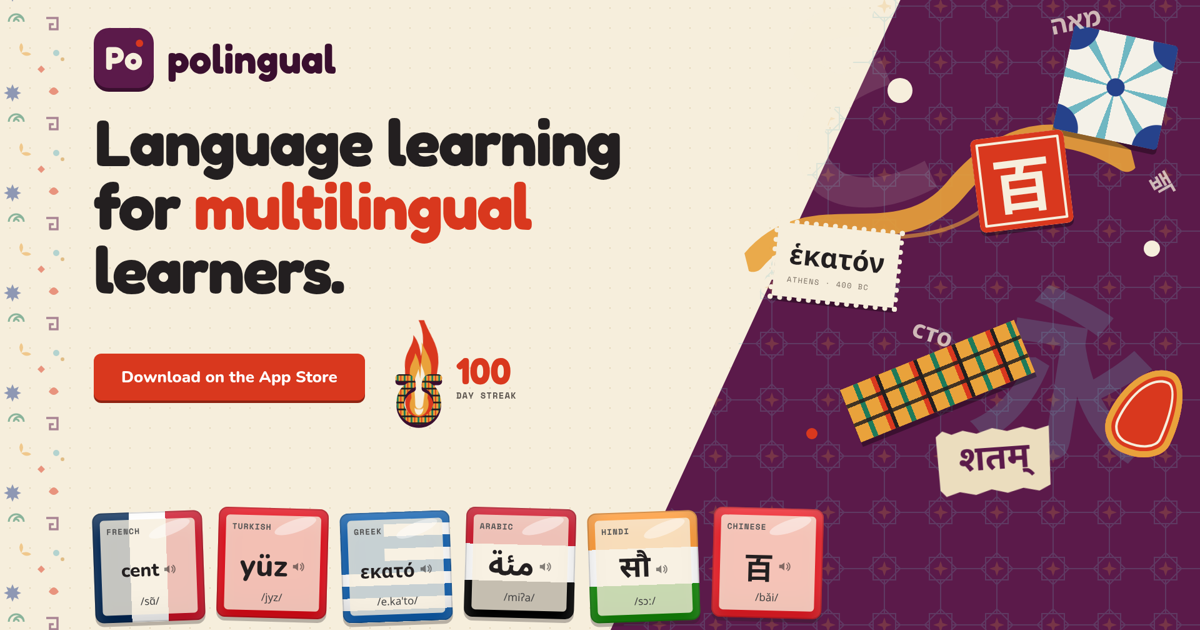
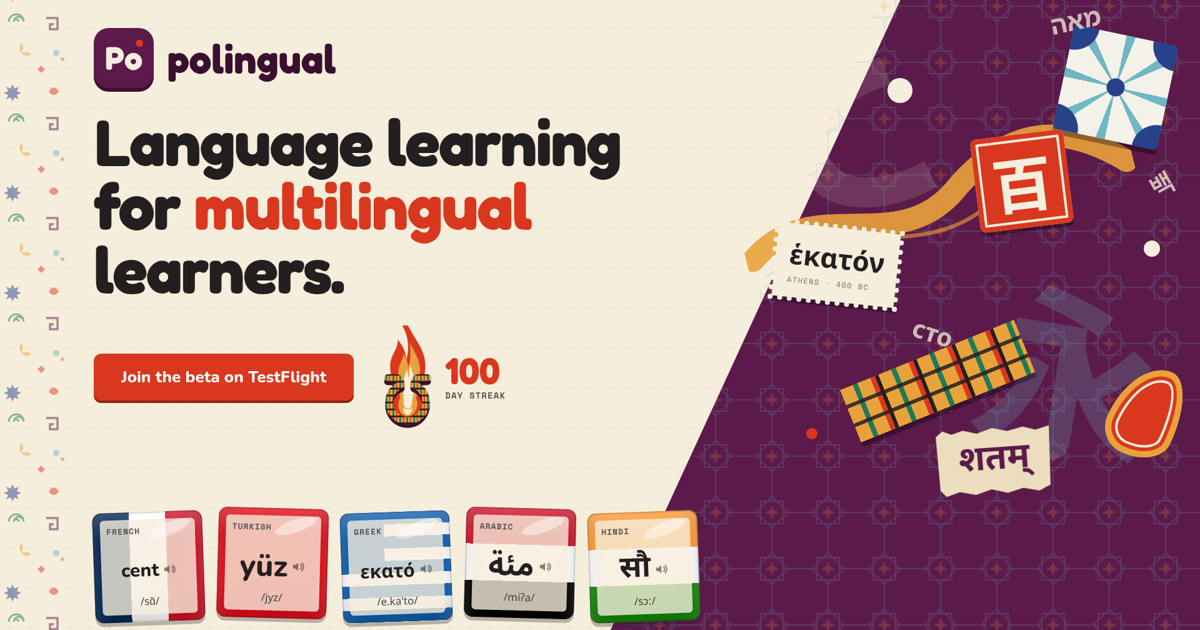
feat(polingual): fill tall desktop windows, full share metadata, share button
Hero stretches to the window height; manifest, favicon, image alt, locale; Share uses the Web Share API with copy fallback; refreshed share image.

Changed region(s): [[0.0925, 0.5127, 0.4317, 0.6937], [0.5858, 0.7841, 0.7092, 0.9952]]

diff --git a/polingual/public/d8/index.html b/polingual/public/d8/index.html
@@ -14,6 +14,14 @@
 <meta property="og:url" content="https://www.polingual.com/">
 <meta property="og:image" content="https://www.polingual.com/d8/og.png">
 <meta property="og:image:width" content="1200"><meta property="og:image:height" content="630">
+<meta property="og:image:type" content="image/png">
+<meta property="og:image:alt" content="Polingual: language learning for multilingual learners, with word tiles in French, Hebrew, Greek, Arabic, Hindi and Chinese">
+<meta property="og:locale" content="en_US">
+<meta name="twitter:image:alt" content="Polingual word tiles in six scripts">
+<meta name="apple-mobile-web-app-title" content="Polingual">
+<meta name="application-name" content="Polingual">
+<link rel="manifest" href="/d8/manifest.webmanifest">
+<link rel="icon" href="/favicon.ico" sizes="32x32">
 <meta name="twitter:card" content="summary_large_image">
 <meta name="twitter:title" content="Polingual: language learning for multilingual learners">
 <meta name="twitter:description" content="Polingual teaches one word across many languages and scripts. Hear every word said, see its roots, and keep a daily streak. For iPhone and iPad.">
@@ -30,7 +38,11 @@ html,body{height:100%;overflow:hidden;background:#F6EEDC}
 #dk .hero{flex:1 1 auto;min-height:0;position:relative;overflow:hidden;background:linear-gradient(90deg,#F6EEDC 50%,#5B1A4A 50%)}
 #dk .stage{position:absolute;left:0;top:0;width:1920px;height:1080px;transform-origin:0 0}
 #dk .stage .brand{visibility:hidden}
-#dk .stage .l{top:20px}
+#dk .stage .l{top:calc(20px + var(--ex,0px))}
+#dk .stage .wedge,#dk .stage .tile{height:100%!important}
+#dk .stage .r{top:calc(120px + var(--ex,0px))!important}
+#dk .stage .col{top:var(--ex,0px)!important;bottom:auto!important;height:1080px}
+#dk .stage .s{height:100%!important}
 #dk .wrap{max-width:1240px;margin:0 auto;padding:0 32px}
 #dk nav{display:flex;align-items:center;gap:28px;padding:22px 0}
 #dk .brand{display:flex;align-items:center;gap:12px;font-family:Fredoka;font-weight:700;font-size:30px;color:var(--lip);text-decoration:none;margin-right:20px}
@@ -279,13 +291,13 @@ html,body{height:100%;overflow:hidden;background:#F6EEDC}
 #mb .wd-box .cal{line-height:1;font-weight:800;transform:rotate(-8deg)}
 #mb .wd-box .ink{width:34px;height:34px;border-radius:50%;background:#F6EEDC}}
 #mb .art,#mb .grid,#mb .grid .t,#mb h1,#mb .pot .fire,#mb .pot b,#mb .cta .btn,#mb .mn>*{transition:left .5s cubic-bezier(.2,.8,.2,1),right .5s,width .5s,height .5s,font-size .5s,max-width .5s,padding .5s,clip-path .5s,margin .5s}
-@media (max-width:759px),(max-aspect-ratio:20/21){#dk{display:none}#mb{display:block}}
+@media (max-width:759px),(max-aspect-ratio:5/4){#dk{display:none}#mb{display:block}}
 </style></head><body>
 <div id="dk">
 <header class="hd"><div class="wrap"><nav>
   <a class="brand" href="/"><span class="mark" data-slot="logo"><img src="/d8/mark-pl.svg" alt="Polingual"></span>polingual</a>
   <a class="l" href="/support">Support</a><a class="l" href="/privacy">Privacy</a>
-  <a class="btn btn-p" style="margin-left:auto" href="https://testflight.apple.com/join/HfeRBKr8" data-slot="appstore" rel="noopener">Join the beta</a>
+  <a class="l" href="#" data-slot="share" style="margin-left:auto">Share</a><a class="btn btn-p" href="https://testflight.apple.com/join/HfeRBKr8" data-slot="appstore" rel="noopener">Join the beta</a>
  </nav></div></header>
 <main class="hero" id="hero"><div class="stage" id="stage">
 <div class="s">
@@ -350,7 +362,7 @@ html,body{height:100%;overflow:hidden;background:#F6EEDC}
 <div id="mb">
 <div class="memphis"></div>
 <div class="pg">
- <nav><a class="brand" href="/"><span class="mark"><img src="/d8/mark-pl.svg" alt="Polingual"></span>polingual</a><a class="si" href="/support">Support</a></nav>
+ <nav><a class="brand" href="/"><span class="mark"><img src="/d8/mark-pl.svg" alt="Polingual"></span>polingual</a><a class="si" href="#" data-slot="share">Share</a></nav>
  <main class="mn">
  <h1>Language learning for <em>multilingual</em> learners.</h1>
  
@@ -409,8 +421,9 @@ html,body{height:100%;overflow:hidden;background:#F6EEDC}
 </div>
 <script src="/d8/tiles.js"></script>
 <script src="/d8/beta.js"></script>
+<script src="/d8/share.js"></script>
 <script>(()=>{const S=["#5B1A4A","url(#sk-kente)","url(#sk-azulejo)","url(#sk-girih)","url(#sk-seal)","url(#sk-paisley)","url(#sk-mudcloth)"];let i=0;if(matchMedia("(prefers-reduced-motion: reduce)").matches)return;setInterval(()=>{i=(i+1)%S.length;document.querySelectorAll(".mho.face").forEach(p=>p.setAttribute("stroke",S[i]))},3000)})()</script>
 <script>(()=>{const f=()=>document.querySelectorAll(".wd-art").forEach(a=>{const b=a.firstElementChild;if(!a.clientWidth)return;b.style.setProperty("--k",Math.min(a.clientWidth/520,a.clientHeight/1060))});f();addEventListener("resize",f);setTimeout(f,300)})()</script>
 <script>(()=>{const mq=matchMedia("(min-width:680px)");let last=null;const art=()=>document.querySelector("#mb .art")||document.querySelector(".pg .art");const snap=()=>{const a=art();if(a&&a.offsetParent)last=a.getBoundingClientRect()};snap();mq.addEventListener("change",()=>{const a=art();if(!a||!last)return snap();const n=a.getBoundingClientRect();if(!n.width)return snap();const dx=last.left-n.left,dy=last.top-n.top,sx=last.width/n.width,sy=last.height/n.height;a.animate([{transformOrigin:"0 0",transform:`translate(${dx}px,${dy}px) scale(${sx},${sy})`},{transformOrigin:"0 0",transform:"none"}],{duration:650,easing:"cubic-bezier(.2,.8,.2,1)"});snap()});addEventListener("resize",()=>{clearTimeout(window.plS);window.plS=setTimeout(snap,120)})})()</script>
-<script>const fit=()=>{const w=hero.clientWidth,h=hero.clientHeight;if(!w)return;const k=Math.min(w/1920,h/1080);stage.style.transform=`translate(${(w-1920*k)/2}px,${(h-1080*k)/2}px) scale(${k})`};fit();addEventListener("resize",fit);matchMedia("(max-width:759px),(max-aspect-ratio:20/21)").addEventListener("change",fit)</script>
+<script>const fit=()=>{const w=hero.clientWidth,h=hero.clientHeight;if(!w)return;const k=w/1920;const H=Math.max(1080,h/k);stage.style.height=H+"px";stage.style.setProperty("--ex",((H-1080)/2)+"px");const k2=Math.min(k,h/1080);stage.style.transform=`translate(${(w-1920*k2)/2}px,${(h-H*k2)/2}px) scale(${k2})`};fit();addEventListener("resize",fit);matchMedia("(max-width:759px),(max-aspect-ratio:5/4)").addEventListener("change",fit)</script>
 </body></html>

diff --git a/polingual/public/d8/landing.html b/polingual/public/d8/landing.html
@@ -14,6 +14,14 @@
 <meta property="og:url" content="https://www.polingual.com/">
 <meta property="og:image" content="https://www.polingual.com/d8/og.png">
 <meta property="og:image:width" content="1200"><meta property="og:image:height" content="630">
+<meta property="og:image:type" content="image/png">
+<meta property="og:image:alt" content="Polingual: language learning for multilingual learners, with word tiles in French, Hebrew, Greek, Arabic, Hindi and Chinese">
+<meta property="og:locale" content="en_US">
+<meta name="twitter:image:alt" content="Polingual word tiles in six scripts">
+<meta name="apple-mobile-web-app-title" content="Polingual">
+<meta name="application-name" content="Polingual">
+<link rel="manifest" href="/d8/manifest.webmanifest">
+<link rel="icon" href="/favicon.ico" sizes="32x32">
 <meta name="twitter:card" content="summary_large_image">
 <meta name="twitter:title" content="Polingual: language learning for multilingual learners">
 <meta name="twitter:description" content="Polingual teaches one word across many languages and scripts. Hear every word said, see its roots, and keep a daily streak. For iPhone and iPad.">
@@ -133,7 +141,7 @@ a:focus-visible,button:focus-visible,.t:focus-visible{outline:3px solid #D9381E;
  <header class="hd"><div class="wrap"><nav>
   <a class="brand" href="/"><span class="mark" data-slot="logo"><img src="mark-pl.svg" alt="Polingual"></span>polingual</a>
   <a class="l" href="/support">Support</a><a class="l" href="/privacy">Privacy</a>
-  <a class="btn btn-p" style="margin-left:auto" href="https://testflight.apple.com/join/HfeRBKr8" data-slot="appstore" rel="noopener">Join the beta</a>
+  <a class="l" href="#" data-slot="share" style="margin-left:auto">Share</a><a class="btn btn-p" href="https://testflight.apple.com/join/HfeRBKr8" data-slot="appstore" rel="noopener">Join the beta</a>
  </nav></div></header>
  <h1 class="sr">Language learning for multilingual learners</h1><p class="sr">Polingual teaches one word across many languages and scripts. Hear every word said, see its roots, and keep a daily streak. For iPhone and iPad.</p>
  <main class="hero16" id="h16"><iframe src="/d8/slide.html" title="Polingual: one word in many languages, hear each one said" scrolling="no"></iframe></main>

diff --git a/polingual/public/d8/mobile.html b/polingual/public/d8/mobile.html
@@ -14,6 +14,14 @@
 <meta property="og:url" content="https://www.polingual.com/">
 <meta property="og:image" content="https://www.polingual.com/d8/og.png">
 <meta property="og:image:width" content="1200"><meta property="og:image:height" content="630">
+<meta property="og:image:type" content="image/png">
+<meta property="og:image:alt" content="Polingual: language learning for multilingual learners, with word tiles in French, Hebrew, Greek, Arabic, Hindi and Chinese">
+<meta property="og:locale" content="en_US">
+<meta name="twitter:image:alt" content="Polingual word tiles in six scripts">
+<meta name="apple-mobile-web-app-title" content="Polingual">
+<meta name="application-name" content="Polingual">
+<link rel="manifest" href="/d8/manifest.webmanifest">
+<link rel="icon" href="/favicon.ico" sizes="32x32">
 <meta name="twitter:card" content="summary_large_image">
 <meta name="twitter:title" content="Polingual: language learning for multilingual learners">
 <meta name="twitter:description" content="Polingual teaches one word across many languages and scripts. Hear every word said, see its roots, and keep a daily streak. For iPhone and iPad.">
@@ -144,7 +152,7 @@ h1{font-size:calc(var(--T)*.3)}
 </style></head><body>
 <div class="memphis"></div>
 <div class="pg">
- <nav><a class="brand" href="/"><span class="mark"><img src="mark-pl.svg" alt="Polingual"></span>polingual</a><a class="si" href="/support">Support</a></nav>
+ <nav><a class="brand" href="/"><span class="mark"><img src="mark-pl.svg" alt="Polingual"></span>polingual</a><a class="si" href="#" data-slot="share">Share</a></nav>
  <main class="mn">
  <h1>Language learning for <em>multilingual</em> learners.</h1>
  

diff --git a/polingual/public/d8/share.js b/polingual/public/d8/share.js
@@ -1,0 +1,4 @@
+(()=>{const U="https://www.polingual.com/",T="Polingual: language learning for multilingual learners";
+document.querySelectorAll('[data-slot="share"]').forEach(b=>b.addEventListener('click',async e=>{e.preventDefault();
+if(navigator.share){try{await navigator.share({title:T,text:T,url:U})}catch(x){}return}
+try{await navigator.clipboard.writeText(U);const o=b.textContent;b.textContent='Link copied';setTimeout(()=>b.textContent=o,1800)}catch(x){location.href='mailto:?subject='+encodeURIComponent(T)+'&body='+encodeURIComponent(U)}}))})();

diff --git a/polingual/scripts/build_home.py b/polingual/scripts/build_home.py
@@ -82,11 +82,15 @@ html,body{{height:100%;overflow:hidden;background:#F6EEDC}}
 #dk .hero{{flex:1 1 auto;min-height:0;position:relative;overflow:hidden;background:linear-gradient(90deg,#F6EEDC 50%,#5B1A4A 50%)}}
 #dk .stage{{position:absolute;left:0;top:0;width:1920px;height:1080px;transform-origin:0 0}}
 #dk .stage .brand{{visibility:hidden}}
-#dk .stage .l{{top:20px}}
+#dk .stage .l{{top:calc(20px + var(--ex,0px))}}
+#dk .stage .wedge,#dk .stage .tile{{height:100%!important}}
+#dk .stage .r{{top:calc(120px + var(--ex,0px))!important}}
+#dk .stage .col{{top:var(--ex,0px)!important;bottom:auto!important;height:1080px}}
+#dk .stage .s{{height:100%!important}}
 {shell_css}
 {dk_css}
 {mb_css}
-@media (max-width:759px),(max-aspect-ratio:20/21){{#dk{{display:none}}#mb{{display:block}}}}
+@media (max-width:759px),(max-aspect-ratio:5/4){{#dk{{display:none}}#mb{{display:block}}}}
 </style></head><body>
 <div id="dk">
 {hd}
@@ -96,10 +100,11 @@ html,body{{height:100%;overflow:hidden;background:#F6EEDC}}
 <div id="mb">{body(mobile)}</div>
 <script src="/d8/tiles.js"></script>
 <script src="/d8/beta.js"></script>
+<script src="/d8/share.js"></script>
 {skins.replace('document.querySelectorAll(".mho.face")', 'document.querySelectorAll(".mho.face")')}
 <script>(()=>{{const f=()=>document.querySelectorAll(".wd-art").forEach(a=>{{const b=a.firstElementChild;if(!a.clientWidth)return;b.style.setProperty("--k",Math.min(a.clientWidth/520,a.clientHeight/1060))}});f();addEventListener("resize",f);setTimeout(f,300)}})()</script>
 <script>(()=>{{const mq=matchMedia("(min-width:680px)");let last=null;const art=()=>document.querySelector("#mb .art")||document.querySelector(".pg .art");const snap=()=>{{const a=art();if(a&&a.offsetParent)last=a.getBoundingClientRect()}};snap();mq.addEventListener("change",()=>{{const a=art();if(!a||!last)return snap();const n=a.getBoundingClientRect();if(!n.width)return snap();const dx=last.left-n.left,dy=last.top-n.top,sx=last.width/n.width,sy=last.height/n.height;a.animate([{{transformOrigin:"0 0",transform:`translate(${{dx}}px,${{dy}}px) scale(${{sx}},${{sy}})`}},{{transformOrigin:"0 0",transform:"none"}}],{{duration:650,easing:"cubic-bezier(.2,.8,.2,1)"}});snap()}});addEventListener("resize",()=>{{clearTimeout(window.plS);window.plS=setTimeout(snap,120)}})}})()</script>
-<script>const fit=()=>{{const w=hero.clientWidth,h=hero.clientHeight;if(!w)return;const k=Math.min(w/1920,h/1080);stage.style.transform=`translate(${{(w-1920*k)/2}}px,${{(h-1080*k)/2}}px) scale(${{k}})`}};fit();addEventListener("resize",fit);matchMedia("(max-width:759px),(max-aspect-ratio:20/21)").addEventListener("change",fit)</script>
+<script>const fit=()=>{{const w=hero.clientWidth,h=hero.clientHeight;if(!w)return;const k=w/1920;const H=Math.max(1080,h/k);stage.style.height=H+"px";stage.style.setProperty("--ex",((H-1080)/2)+"px");const k2=Math.min(k,h/1080);stage.style.transform=`translate(${{(w-1920*k2)/2}}px,${{(h-H*k2)/2}}px) scale(${{k2}})`}};fit();addEventListener("resize",fit);matchMedia("(max-width:759px),(max-aspect-ratio:5/4)").addEventListener("change",fit)</script>
 </body></html>
 """
 out = out.replace('src="mark-pl.svg"', 'src="/d8/mark-pl.svg"').replace('href="/d8/mark.svg"', 'href="/d8/mark-pl.svg"')
